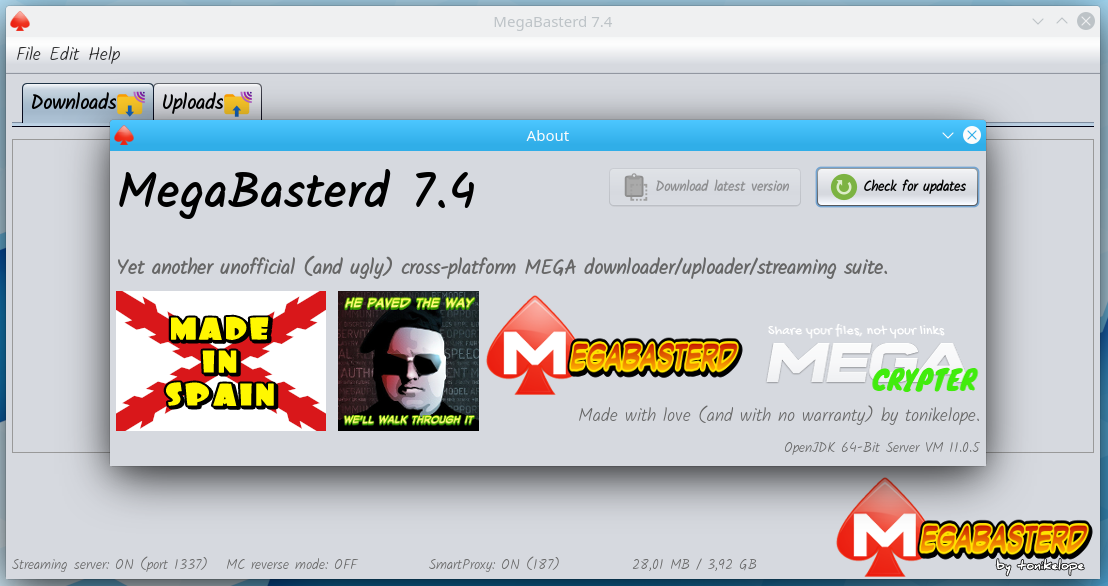
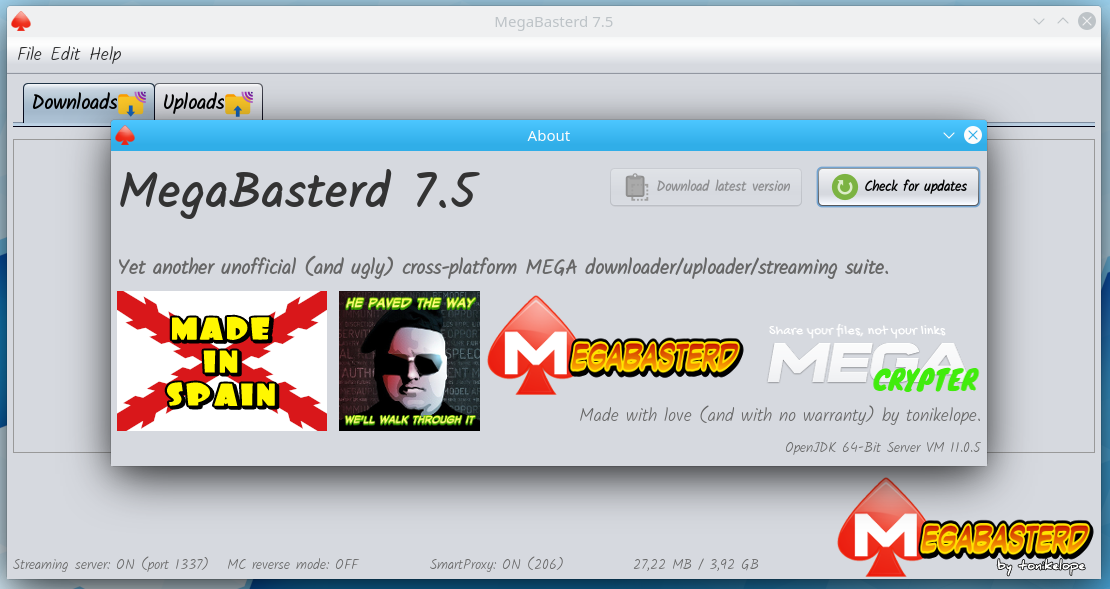
7.5
- Missing downloads after restarting MegaBasterd fix

diff --git a/src/main/java/com/tonikelope/megabasterd/MainPanelView.java b/src/main/java/com/tonikelope/megabasterd/MainPanelView.java
@@ -1027,7 +1027,7 @@ public final class MainPanelView extends javax.swing.JFrame {
 
                                             if (!getMain_panel().getDownload_manager().getTransference_preprocess_global_queue().isEmpty()) {
 
-                                                download = new Download(getMain_panel(), ma, (String) folder_link.get("url"), dl_path, (String) folder_link.get("filename"), (String) folder_link.get("filekey"), (long) folder_link.get("filesize"), null, null, getMain_panel().isUse_slots_down(), true, getMain_panel().isUse_custom_chunks_dir() ? getMain_panel().getCustom_chunks_dir() : null, dialog.getPriority_checkbox().isSelected());
+                                                download = new Download(getMain_panel(), ma, (String) folder_link.get("url"), dl_path, (String) folder_link.get("filename"), (String) folder_link.get("filekey"), (long) folder_link.get("filesize"), null, null, getMain_panel().isUse_slots_down(), false, getMain_panel().isUse_custom_chunks_dir() ? getMain_panel().getCustom_chunks_dir() : null, dialog.getPriority_checkbox().isSelected());
 
                                                 getMain_panel().getDownload_manager().getTransference_provision_queue().add(download);
 

diff --git a/src/main/java/com/tonikelope/megabasterd/MainPanel.java b/src/main/java/com/tonikelope/megabasterd/MainPanel.java
@@ -54,7 +54,7 @@ import javax.swing.UIManager;
  */
 public final class MainPanel {
 
-    public static final String VERSION = "7.4";
+    public static final String VERSION = "7.5";
     public static final int THROTTLE_SLICE_SIZE = 16 * 1024;
     public static final int DEFAULT_BYTE_BUFFER_SIZE = 16 * 1024;
     public static final int STREAMER_PORT = 1337;
@@ -1176,7 +1176,11 @@ public final class MainPanel {
 
                     ArrayList<String> downloads_queue = DBTools.selectDownloadsQueue();
 
+                    System.out.println(downloads_queue);
+
                     HashMap<String, HashMap<String, Object>> res = selectDownloads();
+
+                    System.out.println(res);
 
                     tot_downloads = res.size();
 

diff --git a/src/main/java/com/tonikelope/megabasterd/Download.java b/src/main/java/com/tonikelope/megabasterd/Download.java
@@ -974,7 +974,7 @@ public class Download implements Transference, Runnable, SecureSingleThreadNotif
         _provision_ok = false;
 
         try {
-            if (_file_name == null && !_restart) {
+            if (_file_name == null) {
 
                 file_info = getMegaFileMetadata(_url, getMain_panel().getView(), retry);
 
@@ -1007,9 +1007,7 @@ public class Download implements Transference, Runnable, SecureSingleThreadNotif
                     }
 
                 }
-
             } else {
-
                 _provision_ok = true;
             }
 
